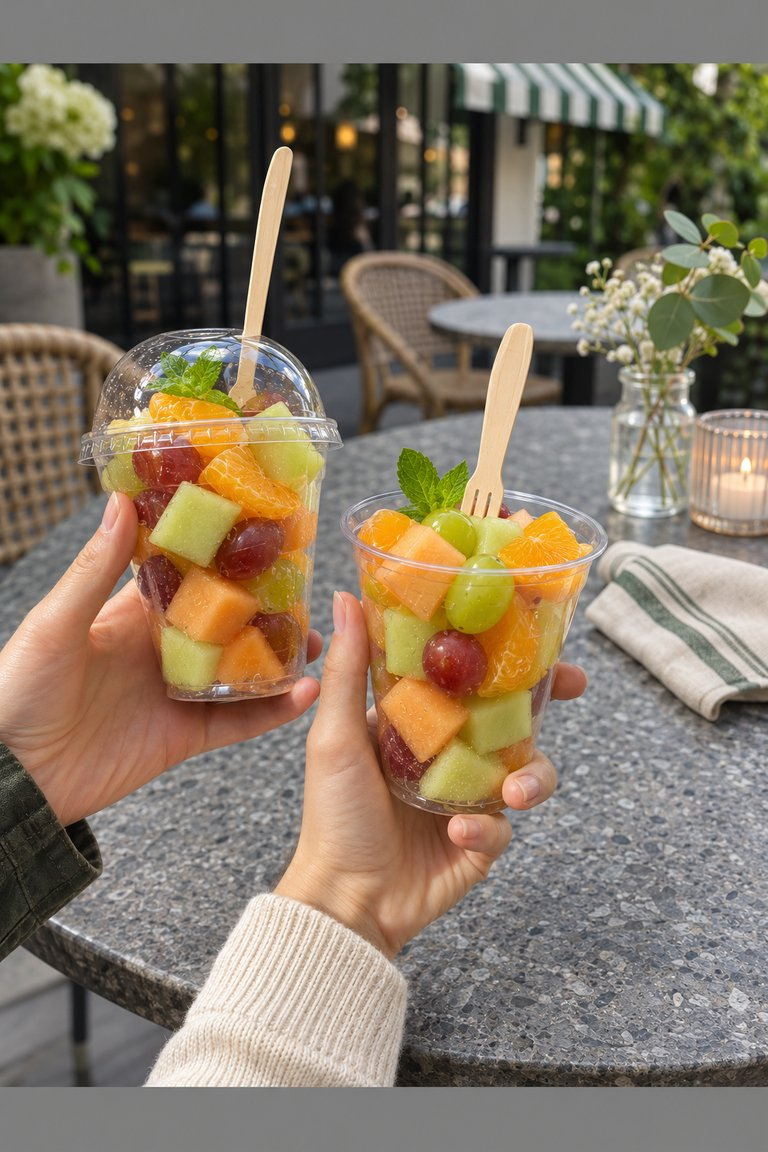
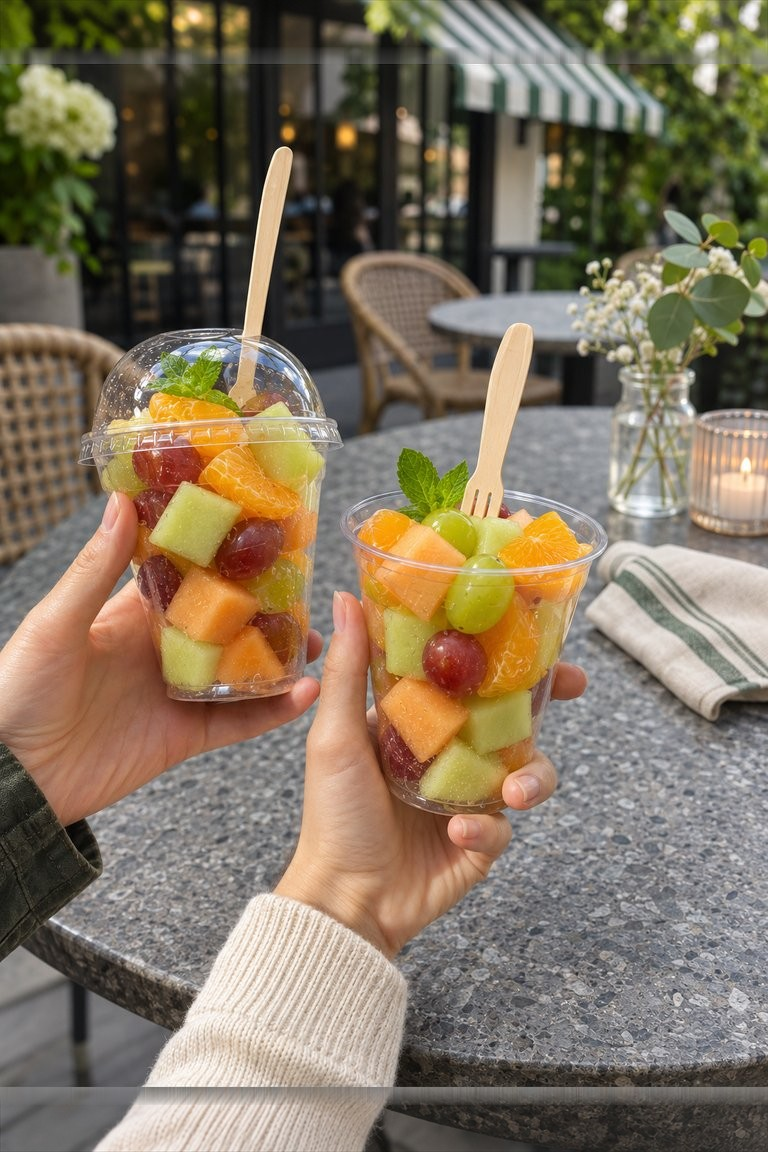
Table edges for food/drink templates; outpainted samples without gray bars; new street drink sample

Changed region(s): [[0.0, 0.0, 1.0, 0.0625], [0.0, 0.9375, 1.0, 1.0]]

diff --git a/PoseCam/Pose/TableEdges.swift b/PoseCam/Pose/TableEdges.swift
@@ -1,0 +1,160 @@
+import CoreGraphics
+import CoreImage
+
+/// 料理・ドリンクの写真から、テーブルの縁（手前・奥の直線）を探す。構図の型に、器の輪郭と一緒に描く。
+///
+/// テーブルの縁は「写真の横幅の 3 割以上続く、横向きに近い、明暗のはっきりした直線」なので、
+/// 写真を小さくして明暗の境目（Sobel）を求め、ハフ変換で直線を探す。
+/// お皿・グラスの縁も境目になるので、器の輪郭の内側（と少し外側）の境目は数えない。
+/// 真上から撮った写真のようにテーブルが画面いっぱいの写真では、何も返さない。
+enum TableEdges {
+    /// 結果は線ごとに [始点, 終点]（画像座標・左上原点・0...1）。最大 2 本
+    static func find(in image: CIImage, excluding outlines: [[CGPoint]]) -> [[CGPoint]] {
+        let width = 320
+        let extent = image.extent
+        guard extent.width > 0, extent.height > 0 else { return [] }
+        let height = max(1, Int(CGFloat(width) * extent.height / extent.width))
+        guard let gray = grayPixels(image, width: width, height: height) else { return [] }
+        let excluded = exclusionMask(outlines, width: width, height: height)
+
+        // Sobel で明暗の境目の強さと向きを求める
+        var magnitude = [Float](repeating: 0, count: width * height)
+        var gx = [Float](repeating: 0, count: width * height)
+        var gy = [Float](repeating: 0, count: width * height)
+        for y in 1..<(height - 1) {
+            for x in 1..<(width - 1) {
+                func p(_ dx: Int, _ dy: Int) -> Float { Float(gray[(y + dy) * width + x + dx]) }
+                let sx = (p(1, -1) + 2 * p(1, 0) + p(1, 1)) - (p(-1, -1) + 2 * p(-1, 0) + p(-1, 1))
+                let sy = (p(-1, 1) + 2 * p(0, 1) + p(1, 1)) - (p(-1, -1) + 2 * p(0, -1) + p(1, -1))
+                let i = y * width + x
+                gx[i] = sx
+                gy[i] = sy
+                magnitude[i] = (sx * sx + sy * sy).squareRoot()
+            }
+        }
+        let threshold: Float = 70
+        var edge = [Bool](repeating: false, count: width * height)
+        for i in 0..<(width * height) where magnitude[i] > threshold && !excluded[i] { edge[i] = true }
+
+        // ハフ変換: 線の法線の角度 θ（50°〜130°、90° が水平な線）と、原点からの距離 ρ
+        let thetas = Array(stride(from: 50.0, through: 130.0, by: 1.0)).map { $0 * .pi / 180 }
+        let maxRho = Int((Double(width * width + height * height)).squareRoot()) + 1
+        let rhoCount = maxRho * 2
+        var votes = [Int](repeating: 0, count: thetas.count * rhoCount)
+        for y in 0..<height {
+            for x in 0..<width where edge[y * width + x] {
+                let i = y * width + x
+                let gradientAngle = atan2(Double(gy[i]), Double(gx[i]))
+                for (t, theta) in thetas.enumerated() {
+                    // 境目の向きと線の法線がそろっているものだけ数える（斜めの模様に引っぱられない）
+                    var difference = abs(gradientAngle - theta).truncatingRemainder(dividingBy: .pi)
+                    difference = min(difference, .pi - difference)
+                    guard difference < 0.35 else { continue }
+                    let rho = Int((Double(x) * cos(theta) + Double(y) * sin(theta)).rounded()) + maxRho
+                    votes[t * rhoCount + rho] += 1
+                }
+            }
+        }
+
+        var lines: [[CGPoint]] = []
+        var used: [(Int, Int)] = []
+        for _ in 0..<6 where lines.count < 2 {
+            // まだ使っていない、いちばん票の多い直線
+            var best = -1, bestVotes = 0
+            for index in votes.indices where votes[index] > bestVotes {
+                let t = index / rhoCount, r = index % rhoCount
+                if used.contains(where: { abs($0.0 - t) <= 8 && abs($0.1 - r) <= 12 }) { continue }
+                best = index
+                bestVotes = votes[index]
+            }
+            guard best >= 0, bestVotes > width / 4 else { break }
+            let t = best / rhoCount, r = best % rhoCount
+            used.append((t, r))
+            if let segment = longestRun(theta: thetas[t], rho: Double(r - maxRho), edge: edge,
+                                        width: width, height: height),
+               segment.length >= Double(width) * 0.35 {
+                lines.append([CGPoint(x: segment.start.x / CGFloat(width), y: segment.start.y / CGFloat(height)),
+                              CGPoint(x: segment.end.x / CGFloat(width), y: segment.end.y / CGFloat(height))])
+            }
+        }
+        return lines
+    }
+
+    /// 直線に沿って境目が続いているいちばん長い区間（途中の 10 ピクセルまでの切れ目はつなぐ）
+    private static func longestRun(theta: Double, rho: Double, edge: [Bool], width: Int, height: Int)
+        -> (start: CGPoint, end: CGPoint, length: Double)? {
+        let s = sin(theta), c = cos(theta)
+        guard abs(s) > 0.3 else { return nil }
+        var best: (start: Int, end: Int)?
+        var runStart: Int?
+        var lastHit = -100
+        func y(at x: Int) -> Double { (rho - Double(x) * c) / s }
+        func hit(_ x: Int) -> Bool {
+            let center = Int(y(at: x).rounded())
+            for dy in -2...2 {
+                let yy = center + dy
+                if yy >= 0, yy < height, edge[yy * width + x] { return true }
+            }
+            return false
+        }
+        for x in 0..<width {
+            if hit(x) {
+                if runStart == nil || x - lastHit > 10 { runStart = x }
+                lastHit = x
+                if let start = runStart, (best == nil || x - start > best!.end - best!.start) { best = (start, x) }
+            }
+        }
+        guard let best else { return nil }
+        let start = CGPoint(x: Double(best.start), y: y(at: best.start))
+        let end = CGPoint(x: Double(best.end), y: y(at: best.end))
+        return (start, end, hypot(end.x - start.x, end.y - start.y))
+    }
+
+    /// 写真を width × height の 8 ビットの灰色にする（少しぼかして細かい模様の境目を減らす）
+    private static func grayPixels(_ image: CIImage, width: Int, height: Int) -> [UInt8]? {
+        let e = image.extent
+        let small = image
+            .transformed(by: CGAffineTransform(translationX: -e.minX, y: -e.minY))
+            .transformed(by: CGAffineTransform(scaleX: CGFloat(width) / e.width, y: CGFloat(height) / e.height))
+            .clampedToExtent()
+            .applyingGaussianBlur(sigma: 1.2)
+            .cropped(to: CGRect(x: 0, y: 0, width: width, height: height))
+        let context = CIContext()
+        guard let cgImage = context.createCGImage(small, from: small.extent),
+              let canvas = CGContext(data: nil, width: width, height: height, bitsPerComponent: 8,
+                                     bytesPerRow: width, space: CGColorSpaceCreateDeviceGray(),
+                                     bitmapInfo: CGImageAlphaInfo.none.rawValue) else { return nil }
+        canvas.draw(cgImage, in: CGRect(x: 0, y: 0, width: width, height: height))
+        guard let data = canvas.data else { return nil }
+        // CGContext のメモリは上の行から並ぶ
+        return Array(UnsafeBufferPointer(start: data.bindMemory(to: UInt8.self, capacity: width * height),
+                                         count: width * height))
+    }
+
+    /// 器の輪郭の内側と、その縁から少し外側までを true にしたマス（上の行から順）
+    private static func exclusionMask(_ outlines: [[CGPoint]], width: Int, height: Int) -> [Bool] {
+        guard let canvas = CGContext(data: nil, width: width, height: height, bitsPerComponent: 8,
+                                     bytesPerRow: width, space: CGColorSpaceCreateDeviceGray(),
+                                     bitmapInfo: CGImageAlphaInfo.none.rawValue) else {
+            return [Bool](repeating: false, count: width * height)
+        }
+        canvas.setFillColor(gray: 0, alpha: 1)
+        canvas.fill(CGRect(x: 0, y: 0, width: width, height: height))
+        // 画像座標（上が 0）で描けるよう上下を反転する
+        canvas.translateBy(x: 0, y: CGFloat(height))
+        canvas.scaleBy(x: 1, y: -1)
+        canvas.setFillColor(gray: 1, alpha: 1)
+        canvas.setStrokeColor(gray: 1, alpha: 1)
+        canvas.setLineWidth(8)
+        canvas.setLineJoin(.round)
+        for outline in outlines where outline.count > 2 {
+            canvas.beginPath()
+            canvas.addLines(between: outline.map { CGPoint(x: $0.x * CGFloat(width), y: $0.y * CGFloat(height)) })
+            canvas.closePath()
+            canvas.drawPath(using: .fillStroke)
+        }
+        guard let data = canvas.data else { return [Bool](repeating: false, count: width * height) }
+        let bytes = data.bindMemory(to: UInt8.self, capacity: width * height)
+        return (0..<(width * height)).map { bytes[$0] > 127 }
+    }
+}

diff --git a/PoseCam/Pose/PoseImporter.swift b/PoseCam/Pose/PoseImporter.swift
@@ -63,6 +63,8 @@ struct PoseShape: Codable {
     var extraOutlines: [[CGPoint]]?
     /// いちばん大きく写っている顔のパーツ
     var face: FaceShape?
+    /// 料理・ドリンクの写真のテーブルの縁（開いた線）
+    var lines: [[CGPoint]]?
 }
 
 /// 写真を解析した結果。座標は写真の画像座標（左上原点・0...1）。
@@ -74,6 +76,8 @@ struct PhotoAnalysis {
     let outlines: [[CGPoint]]
     /// いちばん大きく写っている顔のパーツ（画像座標）
     var face: FaceShape?
+    /// テーブルの縁（画像座標の [始点, 終点]）
+    var lines: [[CGPoint]] = []
 
     /// 写っている人物全員の範囲（ピクセル）。輪郭があれば輪郭、なければ関節から求める
     var personBounds: CGRect {
@@ -109,7 +113,10 @@ enum PoseImporter {
                                                              y: -source.extent.minY))
         let outlines = PoseDetector.objectOutlines(ciImage: image)
         guard !outlines.isEmpty else { return nil }
-        return PhotoAnalysis(size: image.extent.size, joints: [:], outlines: outlines)
+        var analysis = PhotoAnalysis(size: image.extent.size, joints: [:], outlines: outlines)
+        // テーブルの縁も型に描く（器の位置だけでなく、テーブルの傾き・高さも合わせられる）
+        analysis.lines = TableEdges.find(in: image, excluding: outlines)
+        return analysis
     }
 
     /// 料理・ドリンクは写真の構図そのものが手本なので、写真の中央を画面の比率でできるだけ大きく切り抜く。
@@ -153,7 +160,8 @@ enum PoseImporter {
             points: Dictionary(uniqueKeysWithValues: analysis.joints.map { ($0.key.rawValue, convert($0.value)) }),
             outline: outlines.first,
             extraOutlines: outlines.count > 1 ? Array(outlines.dropFirst()) : nil,
-            face: analysis.face?.map(convert))
+            face: analysis.face?.map(convert),
+            lines: analysis.lines.isEmpty ? nil : analysis.lines.map { $0.map(convert) })
     }
 
     static func makeTemplate(name: String, shape: PoseShape) -> PoseTemplate {
@@ -162,6 +170,7 @@ enum PoseImporter {
         template.points = shape.points
         template.extraOutlines = shape.extraOutlines
         template.face = shape.face
+        template.lines = shape.lines
         return template
     }
 }

diff --git a/PoseCam/Pose/PoseLibrary.swift b/PoseCam/Pose/PoseLibrary.swift
@@ -100,6 +100,7 @@ final class PoseLibrary: ObservableObject {
             builtInPoses[index].outline = shape.outline
             builtInPoses[index].extraOutlines = shape.extraOutlines
             builtInPoses[index].face = shape.face
+            builtInPoses[index].lines = shape.lines
         }
     }
 
@@ -109,7 +110,7 @@ final class PoseLibrary: ObservableObject {
     private func prepareBuiltInShapes() {
         let poses = builtInPoses
         // 型の作り方を変えたら名前を変えて、古い結果を使わないようにする
-        let cacheURL = Self.documents.appendingPathComponent("builtin_pose_shapes_v4.json")
+        let cacheURL = Self.documents.appendingPathComponent("builtin_pose_shapes_v5.json")
 
         DispatchQueue.global(qos: .utility).async {
             var cache = (try? JSONDecoder().decode([String: PoseShape].self,
@@ -141,6 +142,7 @@ final class PoseLibrary: ObservableObject {
                     updated[index].outline = shape.outline
                     updated[index].extraOutlines = shape.extraOutlines
                     updated[index].face = shape.face
+                    updated[index].lines = shape.lines
                 }
             }
 

diff --git a/tools/shapes/main.swift b/tools/shapes/main.swift
@@ -56,6 +56,7 @@ let encoder = JSONEncoder()
 encoder.outputFormatting = [.sortedKeys]
 try encoder.encode(shapes).write(to: outDir.appendingPathComponent("builtin_shapes.json"))
 print("shapes: \(shapes.count), failed: \(failed.count) \(failed)")
+print("table edges: " + shapes.filter { $0.value.lines != nil }.map { "\($0.key)=\($0.value.lines!.count)" }.sorted().joined(separator: " "))
 
 // MARK: - 確認用の一覧画像
 
@@ -89,6 +90,13 @@ for sheetIndex in stride(from: 0, to: previews.count, by: perSheet) {
             canvas.beginPath()
             canvas.addLines(between: outline.map(point))
             canvas.closePath()
+            canvas.strokePath()
+        }
+        // テーブルの縁（料理・ドリンク）は赤
+        canvas.setStrokeColor(CGColor(red: 1, green: 0.2, blue: 0.2, alpha: 1))
+        for line in item.analysis.lines where line.count > 1 {
+            canvas.beginPath()
+            canvas.addLines(between: line.map(point))
             canvas.strokePath()
         }
         canvas.setStrokeColor(CGColor(red: 0, green: 0.8, blue: 1, alpha: 1))

diff --git a/PoseCam/Pose/PoseTemplate.swift b/PoseCam/Pose/PoseTemplate.swift
@@ -23,6 +23,8 @@ struct PoseTemplate: Identifiable, Codable, Hashable {
     var imageName: String?
     /// 顔のパーツ（等方座標）。顔の位置・大きさ・傾きの一致度と、型の顔の表示に使う
     var face: FaceShape?
+    /// 料理・ドリンクの型のテーブルの縁（等方座標の開いた線）
+    var lines: [[CGPoint]]?
 
     init(id: String = UUID().uuidString, name: String, category: String,
          joints: [Joint: CGPoint], isUserCreated: Bool, recommendedZoom: Double? = nil,
@@ -57,6 +59,7 @@ struct PoseTemplate: Identifiable, Codable, Hashable {
         var result = mirroredTemplate
         result.extraOutlines = extraOutlines?.map { $0.map { CGPoint(x: -$0.x, y: $0.y) } }
         result.face = face?.mirrored()
+        result.lines = lines?.map { $0.map { CGPoint(x: -$0.x, y: $0.y) } }
         return result
     }
 

diff --git a/PoseCam/UI/PoseViews.swift b/PoseCam/UI/PoseViews.swift
@@ -113,6 +113,12 @@ enum PoseDrawing {
             drawOutline(template.joints.mapValues(transform), in: context, color: color,
                         lineWidth: lineWidth, fillOpacity: fillOpacity)
         }
+        // テーブルの縁（料理・ドリンクの型）
+        for line in template.lines ?? [] where line.count > 1 {
+            var path = Path()
+            path.addLines(line.map(transform))
+            context.stroke(path, with: .color(color), style: StrokeStyle(lineWidth: lineWidth, lineCap: .round))
+        }
     }
 
     private static func draw(_ shape: Path, in context: GraphicsContext,
